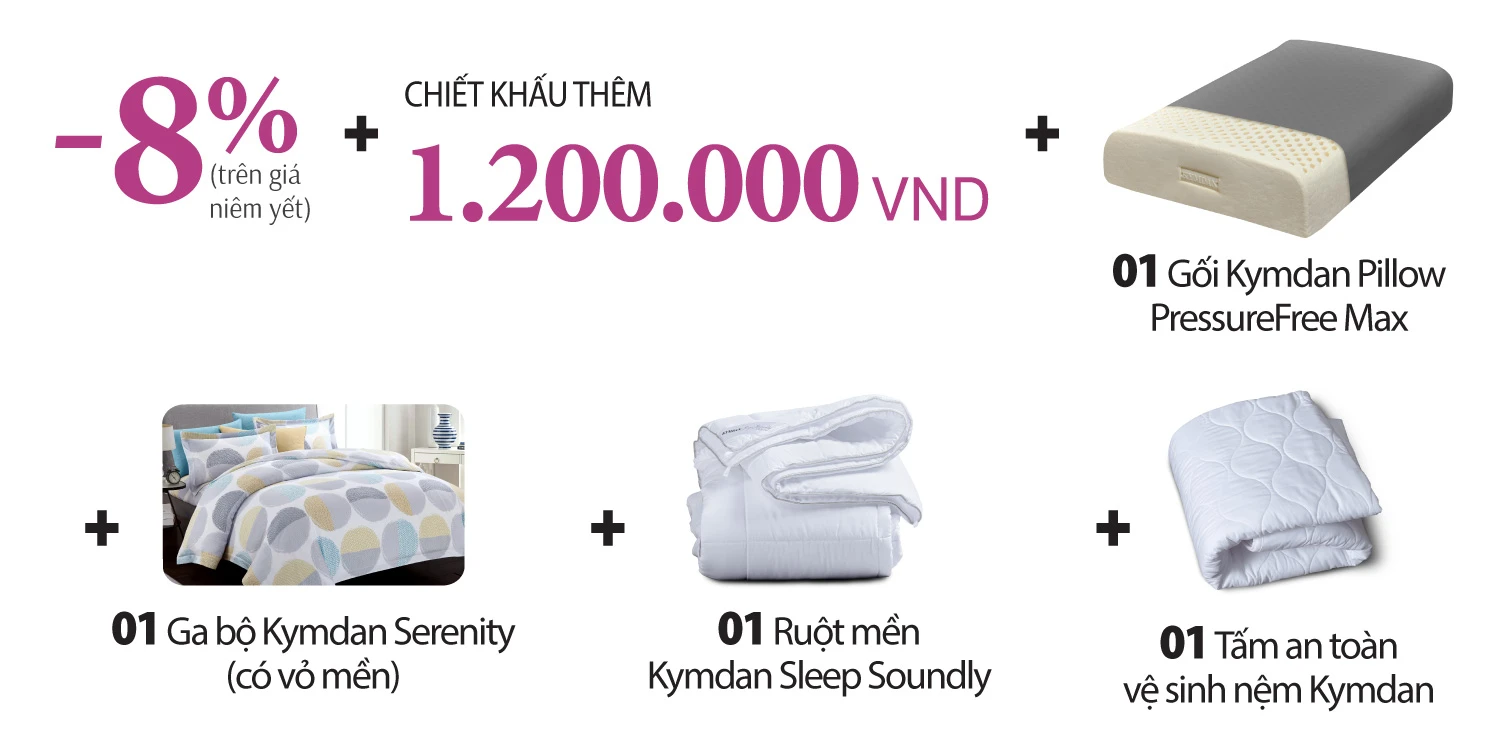
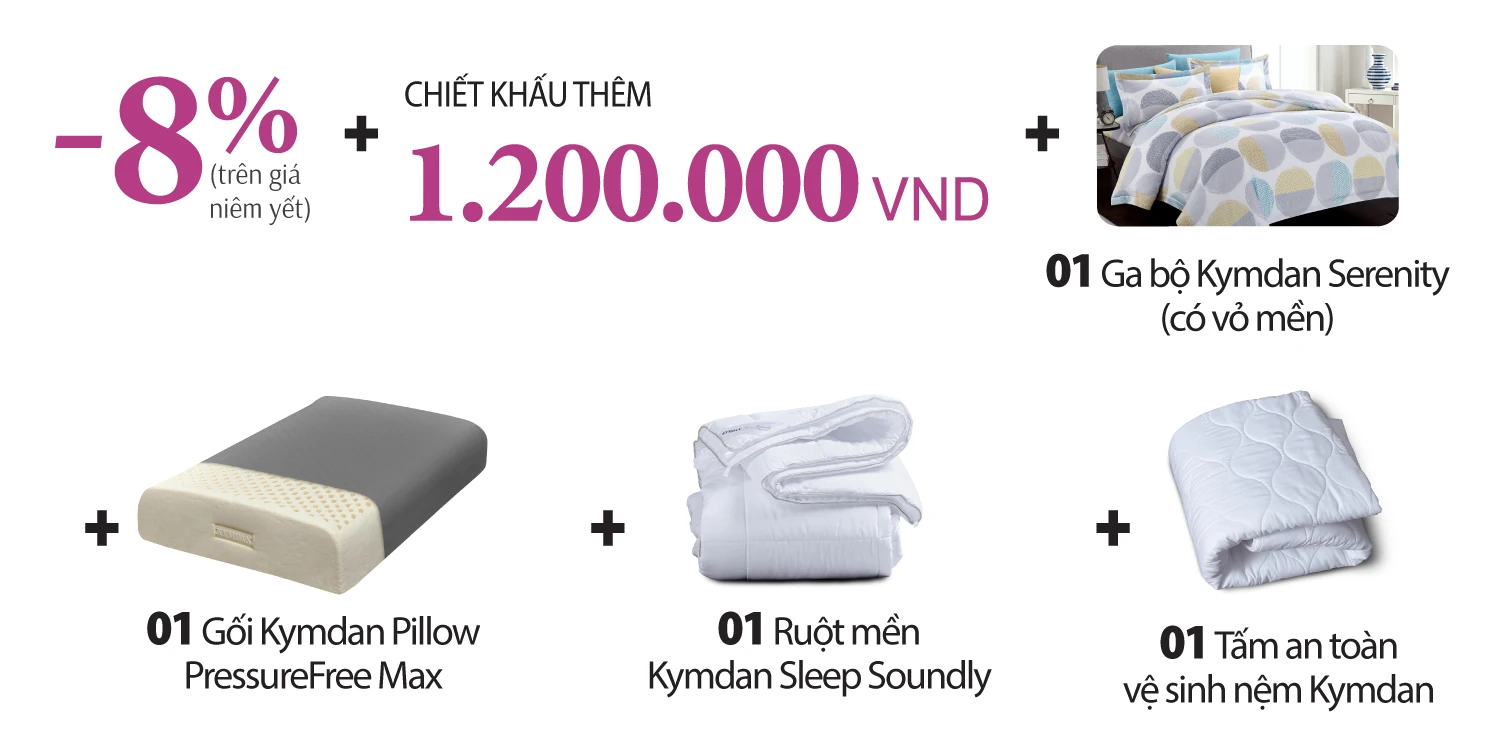
Thay 9 ảnh ưu đãi Ngày Hội Trải Nghiệm bằng bản thiết kế mới
Khách gửi lại bộ icon quà tặng: 4 bản PC + 4 bản mobile. Nội dung ưu đãi
giữ nguyên, chỉ đổi bố cục và bỏ chữ "(chăn)" ở dòng Mền SleepCool.

Ghép ô bằng cách mở từng ảnh ra đối chiếu nội dung, không tin tên file;
kích thước cũng trùng khít từng ô nên xác nhận được hai chiều.

Badge "Mua 1 tặng 1" bản mobile dùng chung cho cả Ga trải giường lẫn Mền
(hai file cũ vốn đã trùng nhau từng byte), nên mobile-13 ghi vào cả hai.

Chuyển webp q90 để bám sát dung lượng bản q_auto đang chạy.

Changed region(s): [[0.6747, 0.0306, 0.9813, 0.4588], [0.0613, 0.5199, 0.3373, 0.9176]]

diff --git a/ngay-hoi-trai-nghiem/manifest.md b/ngay-hoi-trai-nghiem/manifest.md
@@ -13,16 +13,16 @@ Tải từ Cloudinary **2026-09-10**. Nguồn markup: `index.html`
 | nem-demo | `nem-demo.webp` | 900×445 · 29 KB · **alpha** | `https://res.cloudinary.com/dxhsejldo/image/upload/c_scale,w_900/f_auto,q_auto/v1788921083/nemdeluxe2_q0q7m0.png` |
 | qua-ga-bo-kymdan-seren | `qua-ga-bo-kymdan-seren.webp` | 312×312 · 15 KB · thu nhỏ 2026-09-10, bản gốc giữ ở `qua-ga-bo-kymdan-seren-full.jpg` (2000×2000 · 510 KB) | `https://res.cloudinary.com/dxhsejldo/image/upload/f_auto,q_auto/v1788764771/Untitled-1_uzapih.jpg` |
 | qua-men-chan-kymdan-sl | `qua-men-chan-kymdan-sl.webp` | 312×312 · 8 KB · thu nhỏ 2026-09-10, bản gốc giữ ở `qua-men-chan-kymdan-sl-full.jpg` (2000×2000 · 229 KB) | `https://res.cloudinary.com/dxhsejldo/image/upload/f_auto,q_auto/v1788764770/Untitled-2_youizt.jpg` |
-| tier-50-chuan-pc | `tier-50-chuan-pc.webp` | 1500×752 · 75 KB | `https://res.cloudinary.com/dxhsejldo/image/upload/f_auto,q_auto/v1788762084/Icon_SK_Hue_icon_sk-23_eqqur6.jpg` |
-| tier-50-chuan-mb | `tier-50-chuan-mb.webp` | 899×1277 · 80 KB | `https://res.cloudinary.com/dxhsejldo/image/upload/f_auto,q_auto/v1788752472/Icon_SK_Hue_icon_sk-20_w7sdbx.jpg` |
+| tier-50-chuan-pc | `tier-50-chuan-pc.webp` | 1500×752 · 71 KB | **ảnh mới khách gửi 2026-09-10** — `Icon SK Hue_icon sk pc-23.jpg` |
+| tier-50-chuan-mb | `tier-50-chuan-mb.webp` | 899×1277 · 76 KB | **ảnh mới khách gửi 2026-09-10** — `Icon SK Hue_icon sk mobile-20.jpg` |
 | tier-50-yeucau-pc | `tier-50-yeucau-pc.webp` | 1500×579 · 45 KB | `https://res.cloudinary.com/dxhsejldo/image/upload/f_auto,q_auto/v1788762085/Icon_SK_Hue_icon_sk-09_unqvtx.jpg` |
 | tier-50-yeucau-mb | `tier-50-yeucau-mb.webp` | 899×790 · 44 KB | `https://res.cloudinary.com/dxhsejldo/image/upload/f_auto,q_auto/v1788752471/Icon_SK_Hue_icon_sk-12_jegphq.jpg` |
 | tier-35-chuan-pc | `tier-35-chuan-pc.webp` | 1500×752 · 90 KB | `https://res.cloudinary.com/dxhsejldo/image/upload/f_auto,q_auto/v1788762084/Icon_SK_Hue_icon_sk-01_grx2nf.jpg` |
 | tier-35-chuan-mb | `tier-35-chuan-mb.webp` | 899×1277 · 95 KB | `https://res.cloudinary.com/dxhsejldo/image/upload/f_auto,q_auto/v1788752470/Icon_SK_Hue_icon_sk-10_rvpf7f.jpg` |
 | tier-35-yeucau-pc | `tier-35-yeucau-pc.webp` | 1500×579 · 46 KB | `https://res.cloudinary.com/dxhsejldo/image/upload/f_auto,q_auto/v1788762085/Icon_SK_Hue_icon_sk-08_fpfwkg.jpg` |
 | tier-35-yeucau-mb | `tier-35-yeucau-mb.webp` | 899×790 · 41 KB | `https://res.cloudinary.com/dxhsejldo/image/upload/f_auto,q_auto/v1788752471/Icon_SK_Hue_icon_sk-11_zdsjlg.jpg` |
-| tier-25-chuan-pc | `tier-25-chuan-pc.webp` | 1500×579 · 52 KB | `https://res.cloudinary.com/dxhsejldo/image/upload/f_auto,q_auto/v1788762084/Icon_SK_Hue_icon_sk-22_zxnllh.jpg` |
-| tier-25-chuan-mb | `tier-25-chuan-mb.webp` | 899×870 · 61 KB | `https://res.cloudinary.com/dxhsejldo/image/upload/f_auto,q_auto/v1788752473/Icon_SK_Hue_icon_sk-19_udctrp.jpg` |
+| tier-25-chuan-pc | `tier-25-chuan-pc.webp` | 1500×579 · 54 KB | **ảnh mới khách gửi 2026-09-10** — `Icon SK Hue_icon sk pc-22.jpg` |
+| tier-25-chuan-mb | `tier-25-chuan-mb.webp` | 899×870 · 57 KB | **ảnh mới khách gửi 2026-09-10** — `Icon SK Hue_icon sk mobile-19.jpg` |
 | tier-25-yeucau-pc | `tier-25-yeucau-pc.webp` | 1500×579 · 41 KB | `https://res.cloudinary.com/dxhsejldo/image/upload/f_auto,q_auto/v1788762085/Icon_SK_Hue_icon_sk-07_ejclqp.jpg` |
 | tier-25-yeucau-mb | `tier-25-yeucau-mb.webp` | 899×790 · 41 KB | `https://res.cloudinary.com/dxhsejldo/image/upload/f_auto,q_auto/v1788752472/Icon_SK_Hue_icon_sk-26_qclnzy.jpg` |
 | tier-15-chuan-pc | `tier-15-chuan-pc.webp` | 1500×579 · 40 KB | `https://res.cloudinary.com/dxhsejldo/image/upload/f_auto,q_auto/v1788762084/Icon_SK_Hue_icon_sk-21_qdssgu.jpg` |
@@ -31,10 +31,10 @@ Tải từ Cloudinary **2026-09-10**. Nguồn markup: `index.html`
 | tier-duoi15-chuan-mb | `tier-duoi15-chuan-mb.webp` | 899×199 · 5 KB | `https://res.cloudinary.com/dxhsejldo/image/upload/f_auto,q_auto/v1788752472/Icon_SK_Hue_icon_sk-16_seecle.jpg` |
 | tier-them15-chuan-pc | `tier-them15-chuan-pc.webp` | 1500×319 · 47 KB | `https://res.cloudinary.com/dxhsejldo/image/upload/f_auto,q_auto/v1788762084/Icon_SK_Hue_icon_sk-29_cov7f5.jpg` |
 | tier-them15-chuan-mb | `tier-them15-chuan-mb.webp` | 899×508 · 40 KB | `https://res.cloudinary.com/dxhsejldo/image/upload/f_auto,q_auto/v1788752473/Icon_SK_Hue_icon_sk-28_nvnokb.jpg` |
-| tier-badge-goi-pc | `tier-badge-goi-pc.webp` | 1500×220 · 13 KB | `https://res.cloudinary.com/dxhsejldo/image/upload/f_auto,q_auto/v1788762084/Icon_SK_Hue_icon_sk-04_o9i5jo.jpg` |
-| tier-badge-goi-mb | `tier-badge-goi-mb.webp` | 899×199 · 10 KB | `https://res.cloudinary.com/dxhsejldo/image/upload/f_auto,q_auto/v1788752472/Icon_SK_Hue_icon_sk-14_rym8o3.jpg` |
-| tier-badge-ga-pc | `tier-badge-ga-pc.webp` | 1500×150 · 6 KB | `https://res.cloudinary.com/dxhsejldo/image/upload/f_auto,q_auto/v1788762085/Icon_SK_Hue_icon_sk-06_w0rdq4.jpg` |
-| tier-badge-ga-mb | `tier-badge-ga-mb.webp` | 899×98 · 4 KB | `https://res.cloudinary.com/dxhsejldo/image/upload/f_auto,q_auto/v1788752471/Icon_SK_Hue_icon_sk-13_rhdqyg.jpg` |
-| tier-badge-men-pc | `tier-badge-ga-pc.webp` | dùng lại file trên | `https://res.cloudinary.com/dxhsejldo/image/upload/f_auto,q_auto/v1788762085/Icon_SK_Hue_icon_sk-06_w0rdq4.jpg` |
-| tier-badge-men-mb | `tier-badge-men-mb.webp` | 899×98 · 4 KB | `https://res.cloudinary.com/dxhsejldo/image/upload/f_auto,q_auto/v1788752473/Icon_SK_Hue_icon_sk-27_ytynf4.jpg` |
+| tier-badge-goi-pc | `tier-badge-goi-pc.webp` | 1500×220 · 15 KB | **ảnh mới khách gửi 2026-09-10** — `Icon SK Hue_icon sk pc-04.jpg` |
+| tier-badge-goi-mb | `tier-badge-goi-mb.webp` | 899×199 · 12 KB | **ảnh mới khách gửi 2026-09-10** — `Icon SK Hue_icon sk mobile-14.jpg` |
+| tier-badge-ga-pc | `tier-badge-ga-pc.webp` | 1500×150 · 7 KB | **ảnh mới khách gửi 2026-09-10** — `Icon SK Hue_icon sk pc-06.jpg` |
+| tier-badge-ga-mb | `tier-badge-ga-mb.webp` | 899×98 · 5 KB | **ảnh mới khách gửi 2026-09-10** — `Icon SK Hue_icon sk mobile-13.jpg` |
+| tier-badge-men-pc | `tier-badge-ga-pc.webp` | dùng lại file trên | **ảnh mới khách gửi 2026-09-10** — `Icon SK Hue_icon sk pc-06.jpg` |
+| tier-badge-men-mb | `tier-badge-men-mb.webp` | 899×98 · 5 KB | **ảnh mới khách gửi 2026-09-10** — `Icon SK Hue_icon sk mobile-13.jpg` |
 | voucher-mat-truoc | `voucher-mat-truoc.webp` | 1177×2359 · 227 KB | `https://res.cloudinary.com/dxhsejldo/image/upload/f_auto,q_auto/v1788752430/voucher_Aeon_Hue_ok-01_qnisg2.jpg` |
